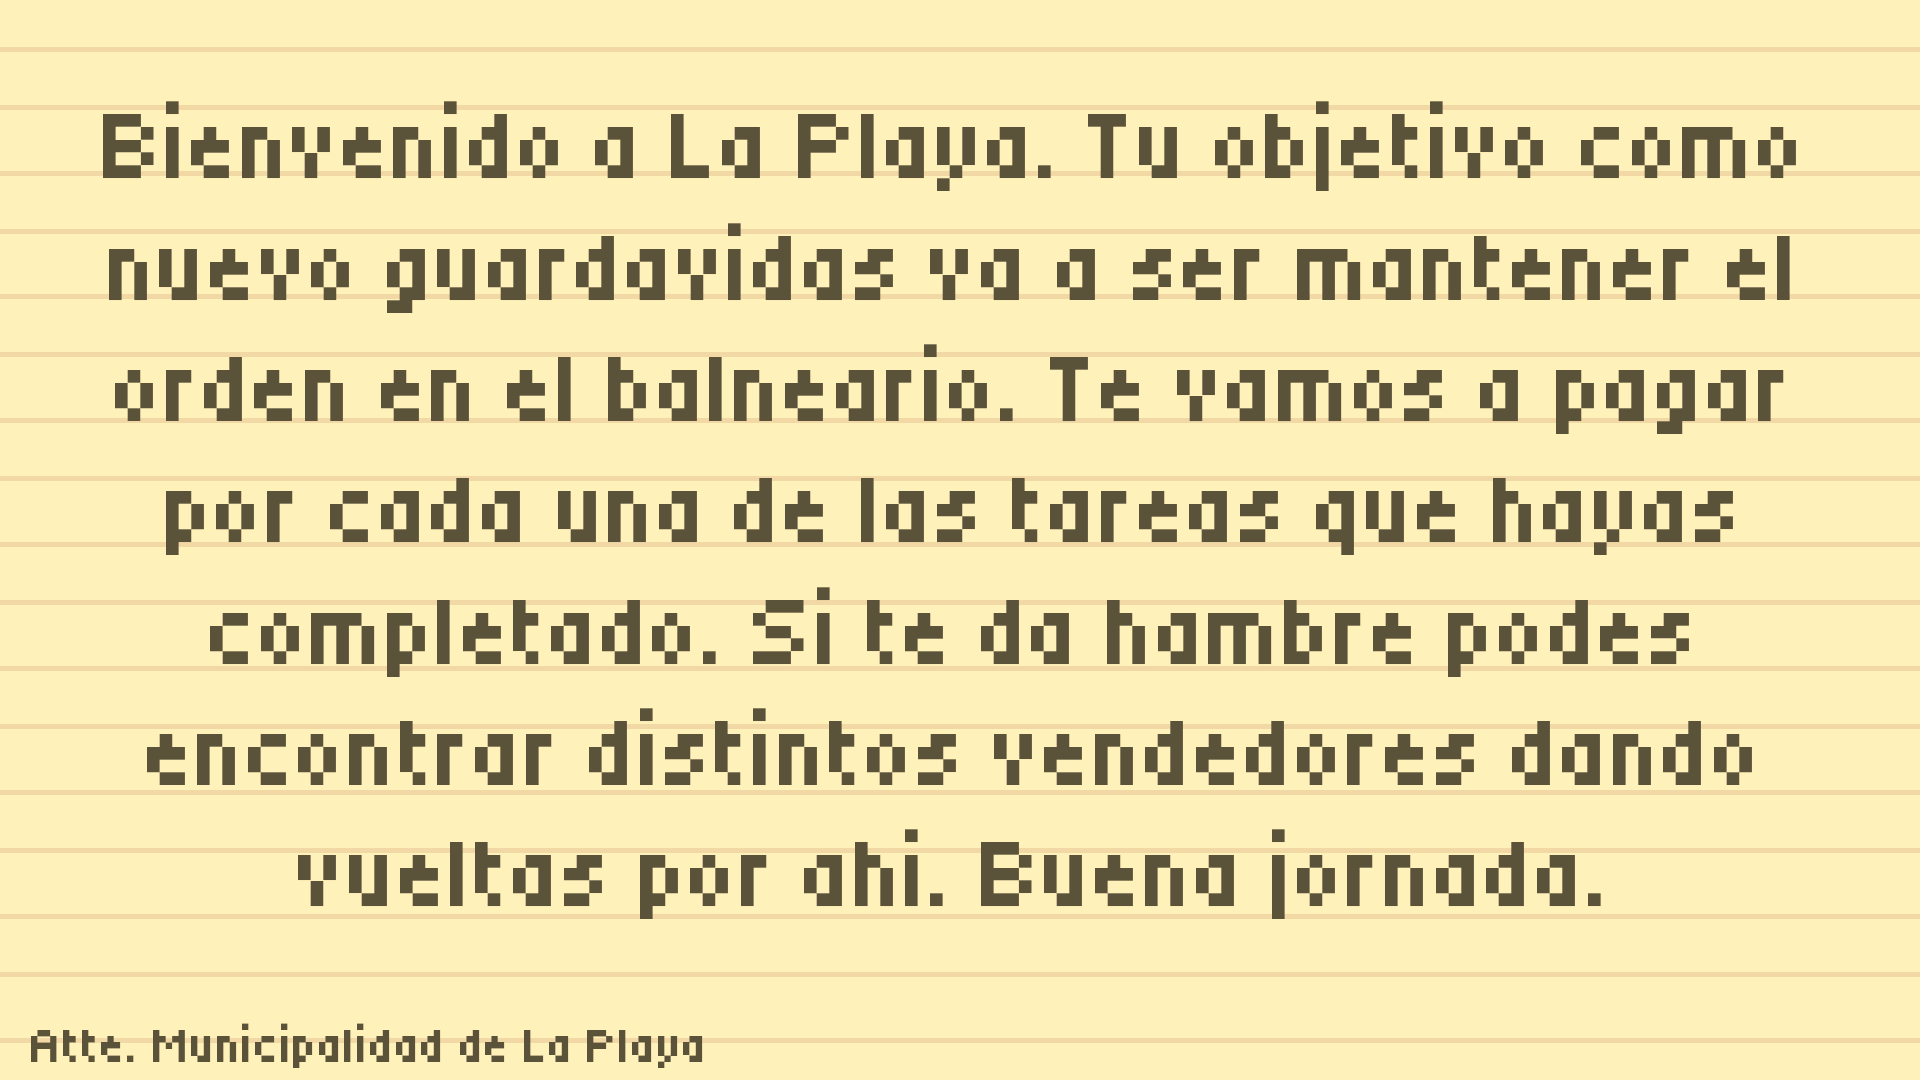
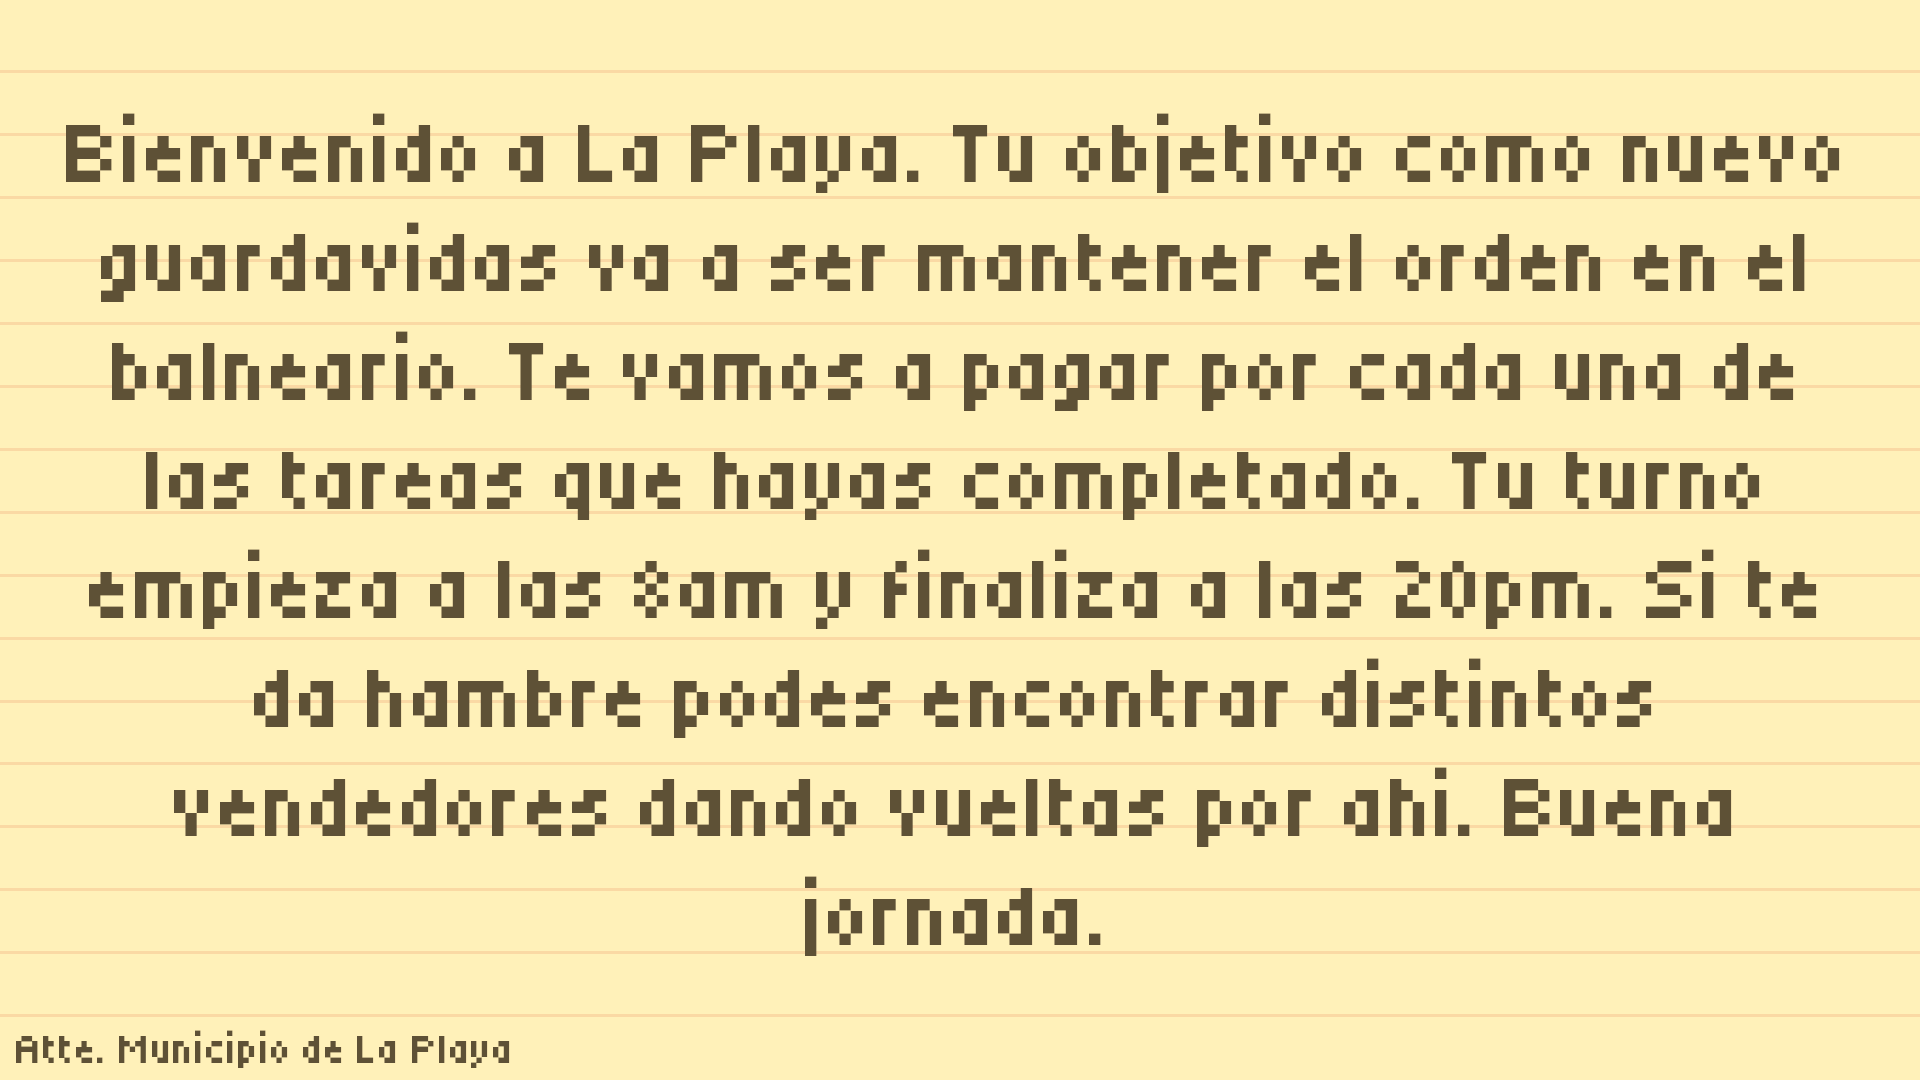
Boton de lobby integrado

Changed region(s): [[0.0, 0.0917, 1.0, 0.9167], [0.0, 0.9472, 1.0, 1.0], [0.0, 0.0306, 1.0, 0.0611]]

diff --git a/js/UI.js b/js/UI.js
@@ -458,26 +458,29 @@ class UIPuntaje{
     
     this.jornadaCompletada = new PIXI.Sprite(miJuego.finDePartida);
     this.jornadaCompletada.anchor.set(0.5, 0.5);
-    //this.jornadaCompletada.x = window.innerWidth / 2;
-    //this.jornadaCompletada.y = window.innerHeight / 5; 
     this.jornadaCompletada.visible = false;
 
     this.contenedorPuntaje = new PIXI.Sprite(miJuego.contenedor);
     this.contenedorPuntaje.anchor.set(0.5, 0);
-    //this.contenedorPuntaje.x = this.jornadaCompletada.x;
-    //this.contenedorPuntaje.y = this.jornadaCompletada.y + 80; 
     this.contenedorPuntaje.visible = false;
 
     this.totalPuntaje = new PIXI.Sprite(miJuego.totalPuntos);
     this.totalPuntaje.anchor.set(0.5, 0);
-    //this.totalPuntaje.x = this.contenedorPuntaje.x;
-    //this.totalPuntaje.y = this.contenedorPuntaje.y + 360; 
     this.totalPuntaje.visible = false;
+
+    this.lobby = new PIXI.Sprite(miJuego.botonDeLobby);
+    this.lobby.anchor.set(0.5, 0.5);
+    this.lobby.visible = false;
+
+    this.lobby.eventMode = 'static';
+    this.lobby.cursor = 'pointer';
+    this.lobby.on('pointertap', () => { window.location.reload(); });
 
     this.container.addChild(this.fondo);
     this.container.addChild(this.totalPuntaje);
     this.container.addChild(this.jornadaCompletada);
     this.container.addChild(this.contenedorPuntaje);
+    this.container.addChild(this.lobby);
 
     this.reescalar();
     window.addEventListener("resize", () => this.reescalar());
@@ -543,6 +546,7 @@ class UIPuntaje{
     this.jornadaCompletada.scale.set(escalaFinal);
     this.contenedorPuntaje.scale.set(escalaFinal);
     this.totalPuntaje.scale.set(escalaFinal);
+    this.lobby.scale.set(escalaFinal * 0.4);
 
     this.jornadaCompletada.x = ancho / 2;
     this.jornadaCompletada.y = alto * 0.18;
@@ -552,6 +556,13 @@ class UIPuntaje{
 
     this.totalPuntaje.x = ancho / 2;
     this.totalPuntaje.y = this.contenedorPuntaje.y + (380 * escalaFinal);
+
+    const anchoBarraTotal = this.totalPuntaje.texture ? (this.totalPuntaje.texture.width * escalaFinal) : (400 * escalaFinal);
+    const altoBarraTotal = this.totalPuntaje.texture ? (this.totalPuntaje.texture.height * escalaFinal) : (80 * escalaFinal);
+    const separacionX = (this.lobby.width / 2) + (15 * escalaFinal);
+
+    this.lobby.x = (ancho / 2) - (anchoBarraTotal / 2) - separacionX;
+    this.lobby.y = this.totalPuntaje.y + (altoBarraTotal / 2);
 
     if (this.puntosObjetivos) {
       this.puntosObjetivos.style.fontSize = Math.round(30 * escalaFinal);

diff --git a/js/main.js b/js/main.js
@@ -168,6 +168,7 @@ class Juego{
         this.tilde = await PIXI.Assets.load("assets/ui/tilde.png");
         this.alertaPeligro = await PIXI.Assets.load("assets/ui/UIAlerta.png")
         this.finDePartida = await PIXI.Assets.load("assets/ui/PantallaVictoria.png");
+        this.botonDeLobby = await PIXI.Assets.load("assets/ui/UILobby.png");
         this.tipografia = await PIXI.Assets.load({src: "assets/Tiny5-Regular.ttf", data:{family: "PixelFont"}}); 
     }
 
